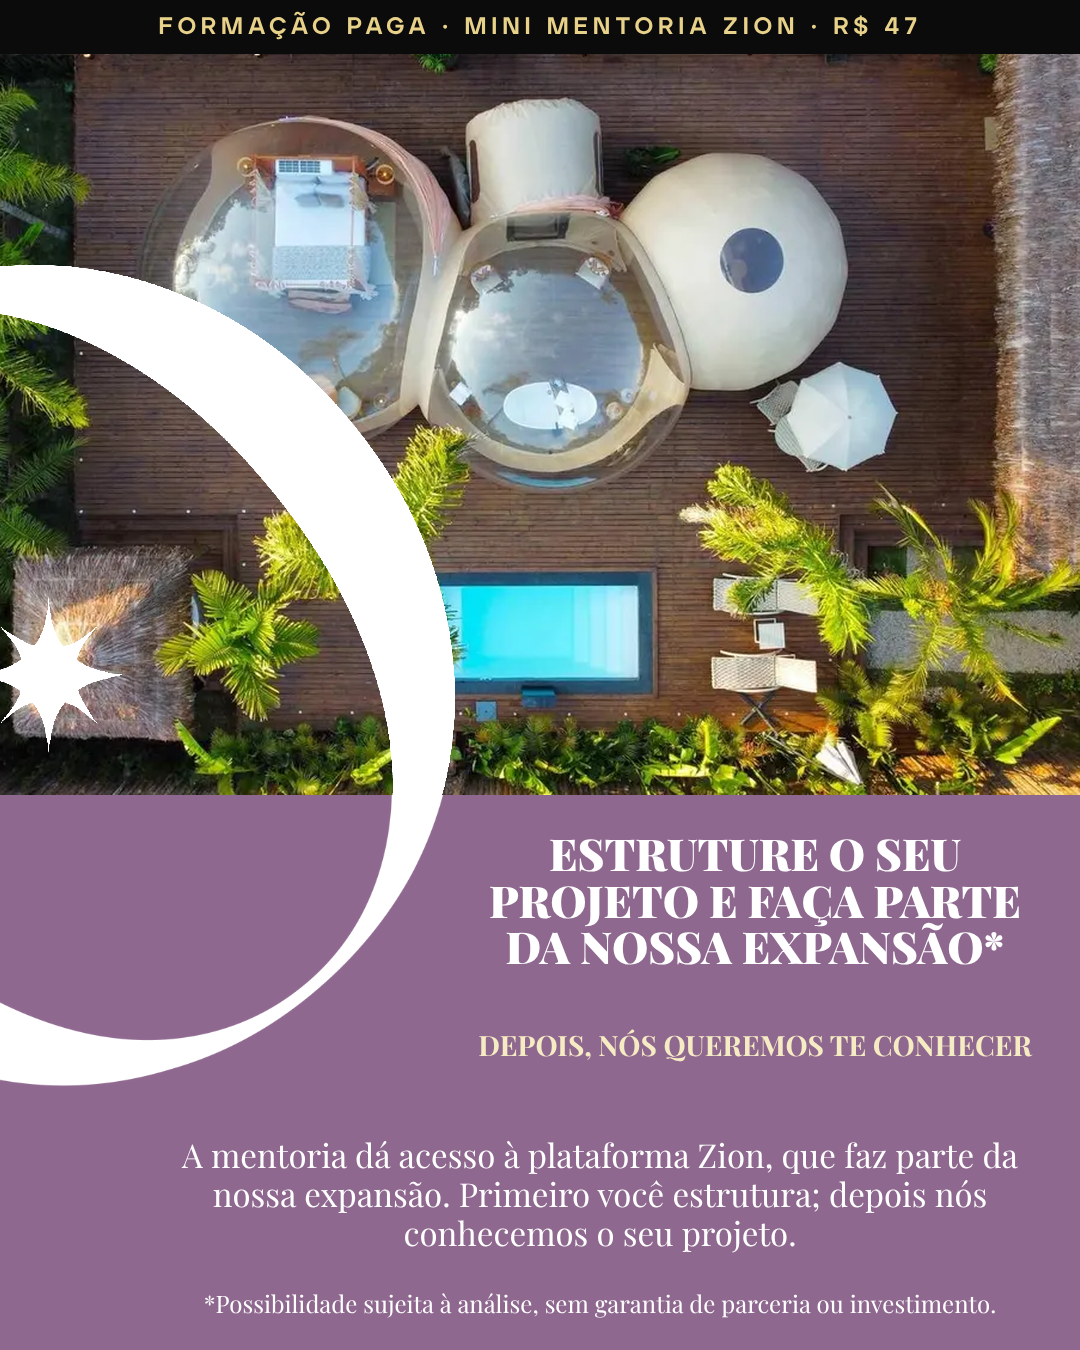
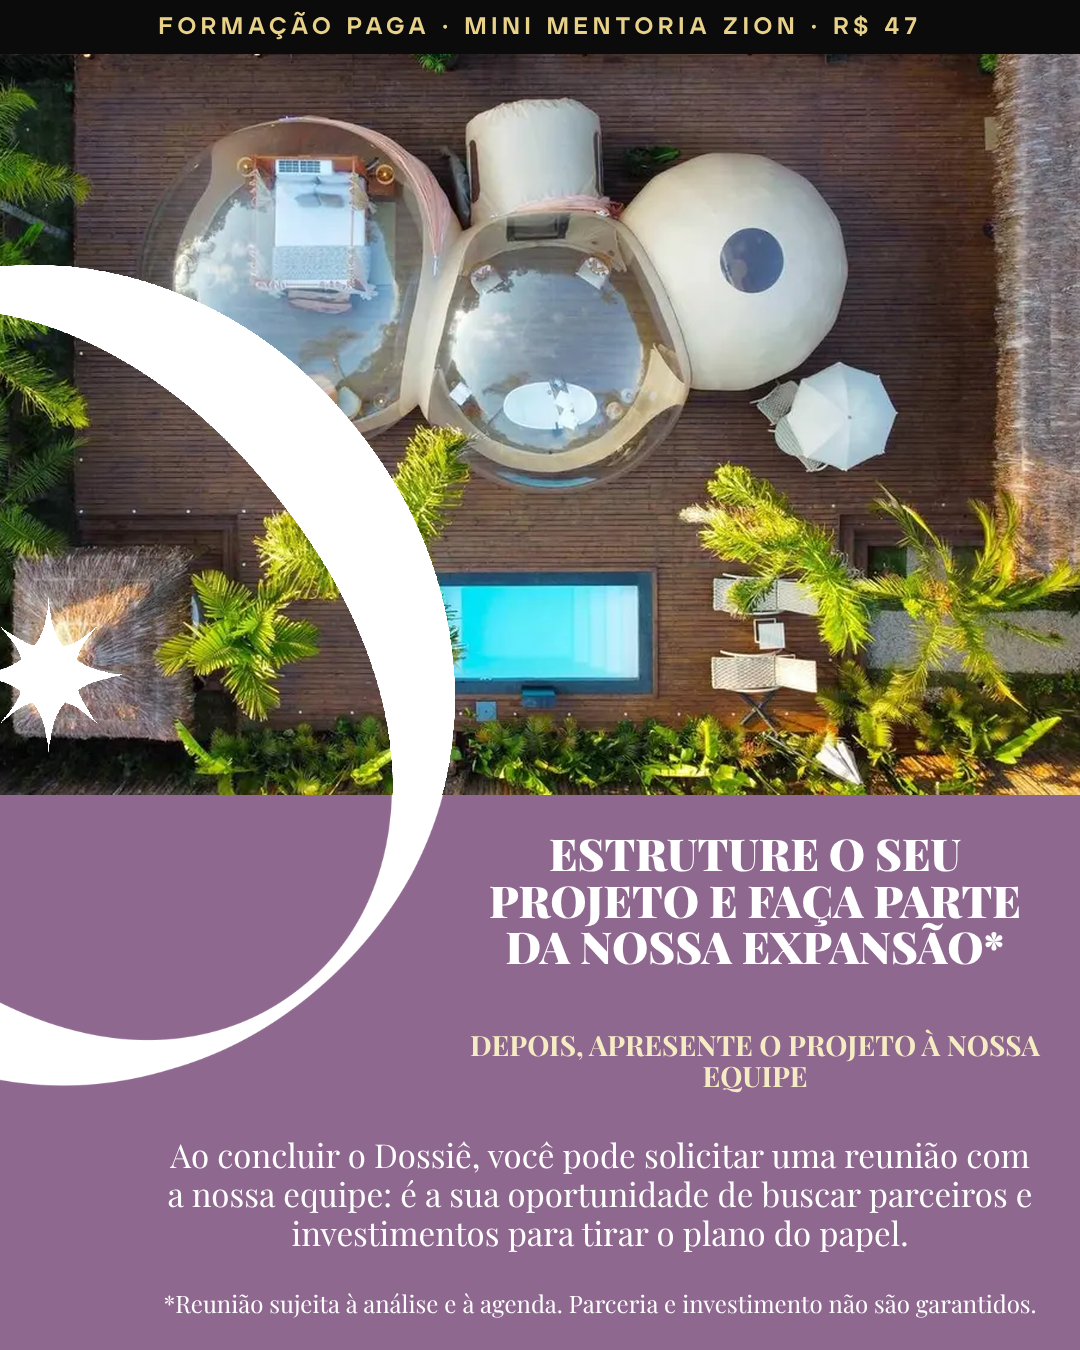
Carrossel C venda: cartão 5 com a reunião após concluir o Dossiê (decisão de Bruno)
Claude-Session: https://claude.ai/code/session_01BzUk5bYdjCT6eSVqUG9zKZ

Changed region(s): [[0.1528, 0.84, 0.9472, 0.9333], [0.1833, 0.9644, 0.9472, 0.9956], [0.4278, 0.7467, 0.9472, 0.8089]]

diff --git a/docs/ads/venda-carrossel-c/build.js b/docs/ads/venda-carrossel-c/build.js
@@ -44,9 +44,9 @@ const cards=[
 // 4b gancho da plataforma (cartão extra, a pedido de Bruno): mesmo layout do cartão 4, outra foto real sem pessoas
 [`o8.png`,`<div class="b" style="left:445px;top:795px;width:635px;height:555px;background:${PU}"></div><div class="b" style="left:150px;top:1160px;width:930px;height:190px;background:${PU}"></div>
 <div class="b s" style="left:455px;width:600px;top:830px;font-size:44px;font-weight:900;color:#fff;text-transform:uppercase;line-height:1.06">Estruture o seu projeto e faça parte da nossa expansão*</div>
-<div class="b s" style="left:455px;width:600px;top:1030px;font-size:28px;font-weight:700;color:#f6ecc4;text-transform:uppercase;line-height:1.1">Depois, nós queremos te conhecer</div>
-<div class="b s" style="left:160px;width:880px;top:1135px;font-size:33px;color:#fff;line-height:1.18">A mentoria dá acesso à plataforma Zion, que faz parte da nossa expansão. Primeiro você estrutura; depois nós conhecemos o seu projeto.</div>
-<div class="b s" style="left:160px;width:880px;top:1290px;font-size:24px;color:#fff;line-height:1.1">*Possibilidade sujeita à análise, sem garantia de parceria ou investimento.</div>`],
+<div class="b s" style="left:455px;width:600px;top:1030px;font-size:28px;font-weight:700;color:#f6ecc4;text-transform:uppercase;line-height:1.1">Depois, apresente o projeto à nossa equipe</div>
+<div class="b s" style="left:160px;width:880px;top:1135px;font-size:33px;color:#fff;line-height:1.18">Ao concluir o Dossiê, você pode solicitar uma reunião com a nossa equipe: é a sua oportunidade de buscar parceiros e investimentos para tirar o plano do papel.</div>
+<div class="b s" style="left:160px;width:880px;top:1290px;font-size:24px;color:#fff;line-height:1.1">*Reunião sujeita à análise e à agenda. Parceria e investimento não são garantidos.</div>`],
 // 5 oportunidade (original 5): o que recebe
 [`o5.png`,`<div class="b" style="left:0;top:1102px;width:1080px;height:248px;background:${BE}"></div>
 <div class="b w" style="left:60px;right:60px;top:1128px;font-size:40px;color:#232c0a;font-weight:500">9 módulos, 70 aulas e materiais</div>

diff --git a/docs/ads/venda-carrossel-c/COPIES.md b/docs/ads/venda-carrossel-c/COPIES.md
@@ -54,3 +54,6 @@ Observação: manifesto.json e painel-comparacao.jpg ainda descrevem a versão d
 
 ## Correção após a vistoria (25/11, VISTORIA_ENTREGAVEIS.md)
 Cartão 8 reescrito com a redação segura confirmada: 9 módulos · 70 conteúdos; Vídeo-aulas + 8 tutoriais em vídeo; 8 fichas interativas "Faça agora"; 8 e-books em PDF (um por pilar); 2 planilhas de cálculo com fórmulas; Kit do Investidor: guia das 6 peças; 9 comandos de IA prontos; Seu Dossiê para baixar em PDF. Saíram "70 aulas", "26 aulas gravadas" (eram 17 vídeo-aulas + 8 tutoriais + 1 boas-vindas, os 17 do YouTube não foram conferidos), "10 fichas" (são 8) e "6 modelos" (só 2 arquivos-modelo, não anexados). Termo para o total: "conteúdos"; "vídeo-aulas" só para vídeos; evitar "aulas" sem qualificar.
+
+## Reunião após a mentoria (decisão de Bruno, 25/11)
+Cartão 5 atualizado: "Depois, apresente o projeto à nossa equipe" / "Ao concluir o Dossiê, você pode solicitar uma reunião com a nossa equipe: é a sua oportunidade de buscar parceiros e investimentos para tirar o plano do papel." / nota "*Reunião sujeita à análise e à agenda. Parceria e investimento não são garantidos." A reunião é gratuita para quem comprou e concluiu o Dossiê, por solicitação (sem calendário público). O texto primário do anúncio deve acompanhar essa regra.
